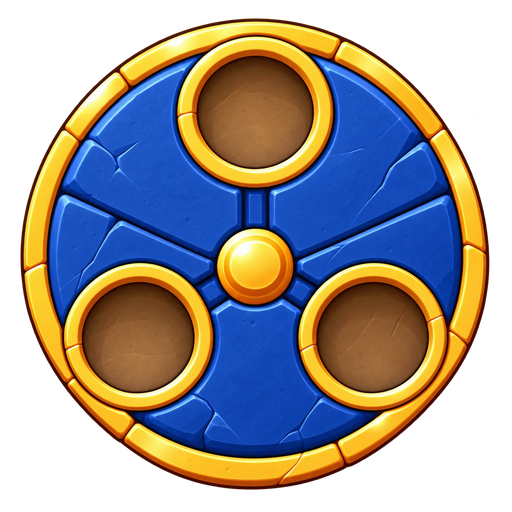
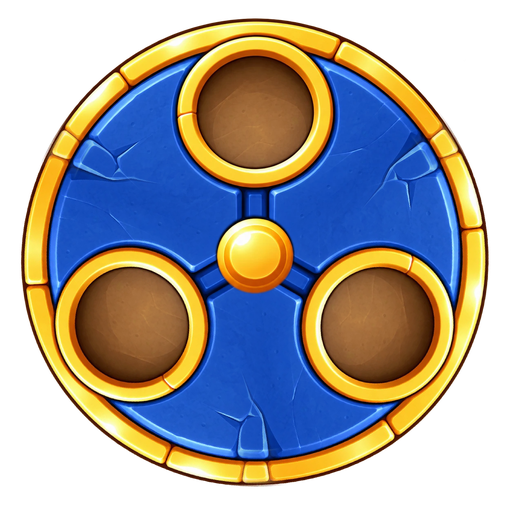
Safe seal: rebuild disk with exact 3-fold symmetry
The drawn sockets were off-center and not 120 degrees apart. The disk is
rebuilt from the top socket's 120-degree wedge rotated around the disk
center (original center boss kept), so the disk turns a clean 120 degrees
per lock.

Claude-Session: https://claude.ai/code/session_011SM6jAozhV5f6ndTXzk3GM

Changed region(s): [[0.0312, 0.2188, 0.9688, 0.9688]]

diff --git a/Assets/_Project/Scripts/Grid/SealSafeView.cs b/Assets/_Project/Scripts/Grid/SealSafeView.cs
@@ -22,16 +22,15 @@ public sealed class SealSafeView : MonoBehaviour
     // Gövde kanvasına göre (UI y yukarı): disk yuvası merkezi ve disk boyu, kartuş.
     private static readonly Vector2 DiskCenter = new Vector2(0.5024f, 0.4880f);
     private const float DiskSize = 0.6097f;
-    // Disk kanvasında dönme merkezi = üç yuvadan eşit uzak nokta (yuvalar tam 120° aralıklı değil).
-    private static readonly Vector2 DiskPivot = new Vector2(0.4996f, 0.4947f);
+    private static readonly Vector2 DiskPivot = new Vector2(0.4976f, 0.5040f);   // disk kanvasında dönme merkezi
     private static readonly Vector2 CounterCenter = new Vector2(0.4944f, 0.8684f);
     private static readonly Vector2 CounterSize = new Vector2(0.44f, 0.13f);
     // Disk kanvasına göre: taş yuvası yarıçapı ve taş boyu.
-    private const float SocketRadius = 0.2844f;
+    private const float SocketRadius = 0.2751f;
     private const float GemSize = 0.236f;
-    // Sıradaki slotların açısı (derece, UI): tepe, sağ-alt, sol-alt (çizimden ölçülü). Disk, sıradaki
-    // slot tam tepeye gelecek kadar döner (125°, sonra 110°).
-    private static readonly float[] SlotAngles = { 90f, -35f, 215f };
+    // Sıradaki slotların açısı (derece, UI): tepe, sağ-alt, sol-alt. Disk sprite'ı 3 katlı simetrik
+    // (yuvalar 120° arayla); disk her adımda sıradaki slotu tepeye getirir.
+    private static readonly float[] SlotAngles = { 90f, -30f, 210f };
 
     private static readonly Color32[] LockColors =
     {
